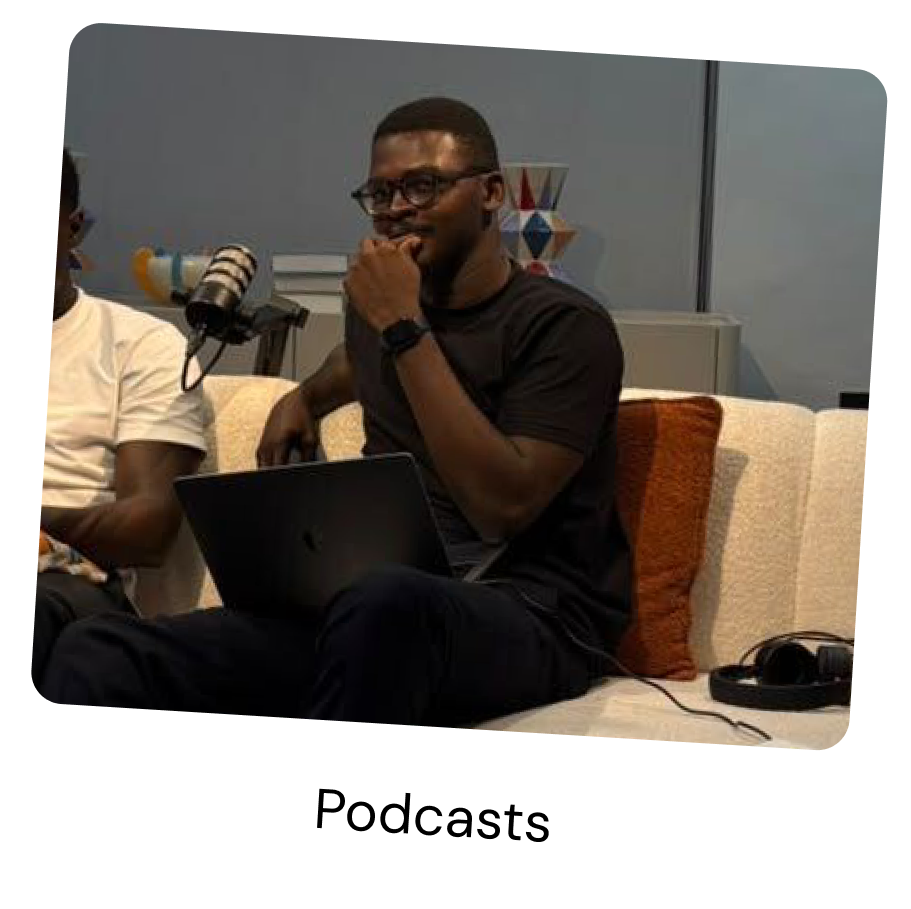
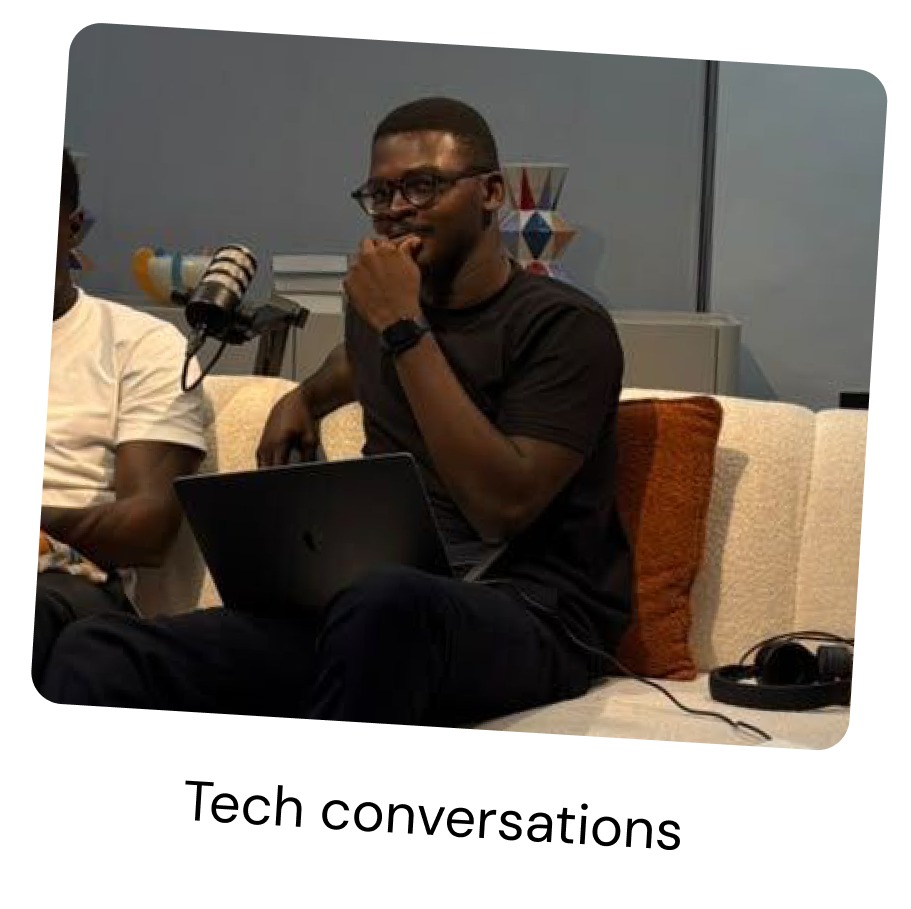
fix: update home project cards to pure figma mockups and update playground to tech conversations

Changed region(s): [[0.2151, 0.8625, 0.7684, 0.9549]]

diff --git a/src/app/page.tsx b/src/app/page.tsx
@@ -11,32 +11,28 @@ export default function WorkPage() {
       id: "daytrps",
       title: "Redesigning the Daytrps Website for a More Visually Engaging User experience",
       category: "2026 - Product Design",
-      imageSrc: "/assets/card-daytrps.png",
-      imageBgColor: "#B6C8E6",
+      imageSrc: "/assets/card-daytrps-pure.png",
       href: "/work/daytrps",
     },
     {
       id: "instagram",
       title: "Organizing the Chaos: A UX Concept to Add Filters to Instagram’s Saved Post",
       category: "2026 - Product Design",
-      imageSrc: "/assets/card-instagram.png",
-      imageBgColor: "#BFB0E8",
+      imageSrc: "/assets/card-instagram-pure.png",
       href: "/work/instagram",
     },
     {
       id: "cv-ai",
       title: "Helping job seekers create better CVs with AI",
       category: "2026 - Product Design",
-      imageSrc: "/assets/card-cv.png",
-      imageBgColor: "#E8ECEF",
+      imageSrc: "/assets/card-cv-pure.png",
       href: "/work/cv-ai",
     },
     {
       id: "airdrop",
       title: "Reimagining Airdrop: Designing a History Feature for Transparency and Control",
       category: "2026 - Product Design",
-      imageSrc: "/assets/card-airdrop.png",
-      imageBgColor: "#A7C0E4",
+      imageSrc: "/assets/card-airdrop-pure.png",
       href: "/work/airdrop",
     },
   ];
@@ -98,7 +94,6 @@ export default function WorkPage() {
                 title={project.title}
                 category={project.category}
                 imageSrc={project.imageSrc}
-                imageBgColor={project.imageBgColor}
                 href={project.href}
               />
             ))}

diff --git a/src/app/playground/page.tsx b/src/app/playground/page.tsx
@@ -73,12 +73,12 @@ export default function PlaygroundPage() {
             </div>
           </div>
 
-          {/* Card 3: Podcasts */}
+          {/* Card 3: Tech conversations */}
           <div className="bg-white rounded-[24px] overflow-hidden shadow-[0_2px_12px_rgba(0,0,0,0.04)] border border-black/[0.04]">
             <div className="relative w-full aspect-[670/517]">
               <Image
-                src="/assets/playground-mobile-card-3.png"
-                alt="Podcasts"
+                src="/assets/playground-tech-conversations-mobile.png"
+                alt="Tech conversations"
                 fill
                 className="object-contain"
               />
@@ -123,12 +123,12 @@ export default function PlaygroundPage() {
             </div>
           </div>
 
-          {/* Bottom Row: Podcasts Card Centered */}
+          {/* Bottom Row: Tech conversations Card Centered */}
           <div className="flex justify-center mt-12 md:mt-20">
             <div className="w-[340px] sm:w-[390px] md:w-[435px] aspect-square relative lg:rotate-[3.5deg] hover:rotate-0 transition-transform duration-300 drop-shadow-[0_8px_30px_rgba(0,0,0,0.08)]">
               <Image
-                src="/assets/playground-podcast.png"
-                alt="Podcasts"
+                src="/assets/playground-tech-conversations-desktop.png"
+                alt="Tech conversations"
                 fill
                 className="object-contain"
               />

diff --git a/src/components/ProjectCard.tsx b/src/components/ProjectCard.tsx
@@ -21,16 +21,14 @@ export default function ProjectCard({
       href={href}
       className="group block bg-white rounded-[24px] p-2.5 pb-5 sm:pb-6 shadow-[0_2px_12px_rgba(0,0,0,0.04)] hover:shadow-[0_8px_30px_rgba(0,0,0,0.08)] transition-all duration-300 border border-black/[0.04]"
     >
-      {/* Image Preview Container (330x177 on mobile, 340 on desktop) */}
-      <div
-        className="w-full h-[177px] sm:h-[280px] md:h-[340px] rounded-[16px] overflow-hidden relative flex items-center justify-center transition-transform duration-300 group-hover:scale-[0.99]"
-        style={{ backgroundColor: imageBgColor || "#F0F0F0" }}
-      >
+      {/* Image Preview Container (330x177 on mobile, 604x341 on desktop) */}
+      <div className="w-full aspect-[330/177] md:aspect-[604/341] rounded-[16px] overflow-hidden relative flex items-center justify-center transition-transform duration-300 group-hover:scale-[0.99]">
         <Image
           src={imageSrc}
           alt={title}
           fill
-          className="object-contain p-2 sm:p-4 transition-transform duration-500 group-hover:scale-105"
+          sizes="(max-width: 768px) 100vw, 50vw"
+          className="object-cover transition-transform duration-500 group-hover:scale-105"
         />
       </div>
 
